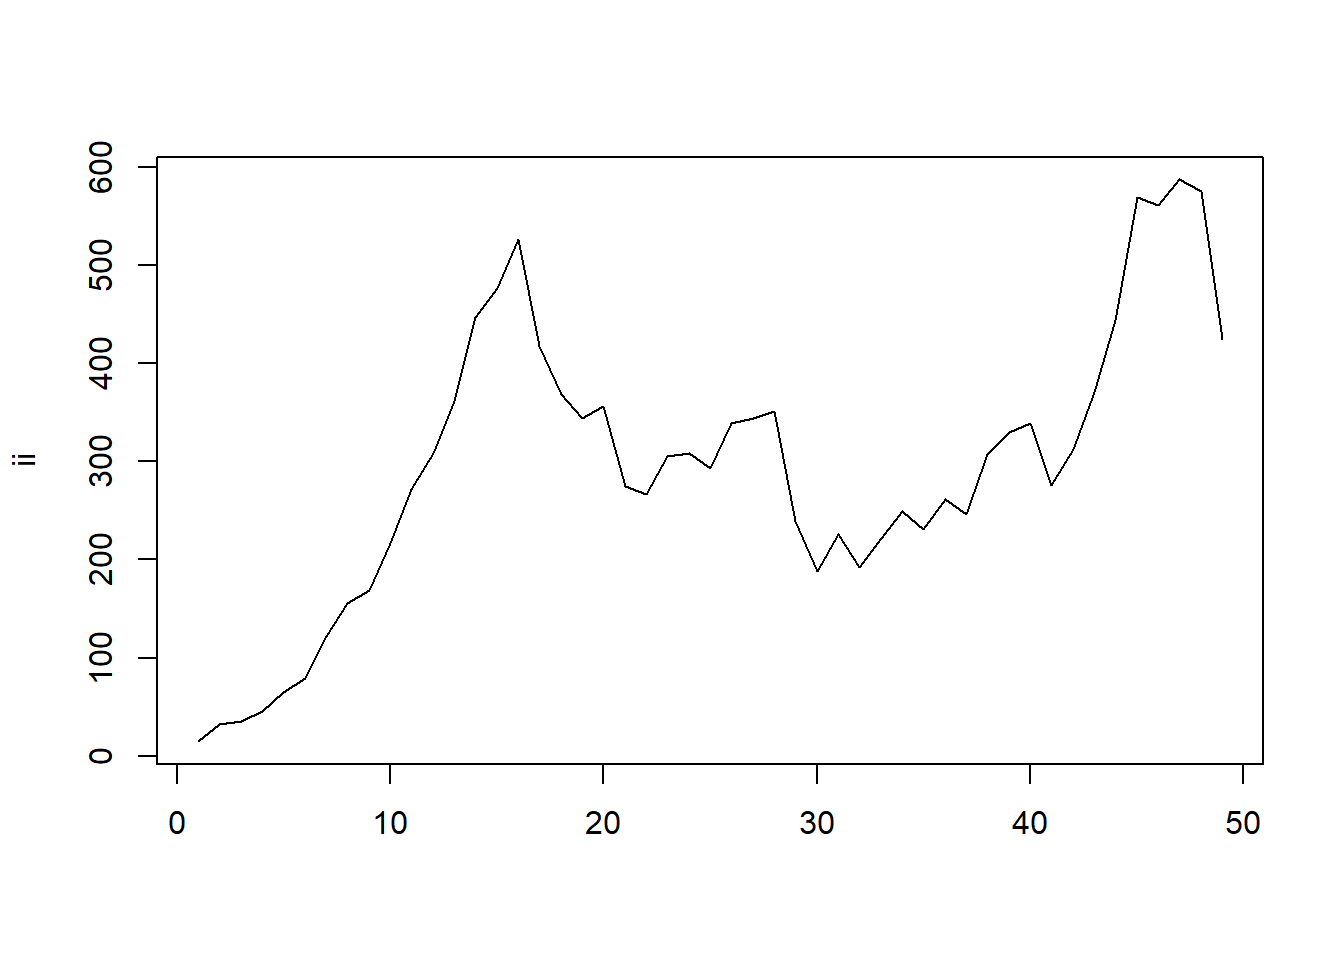
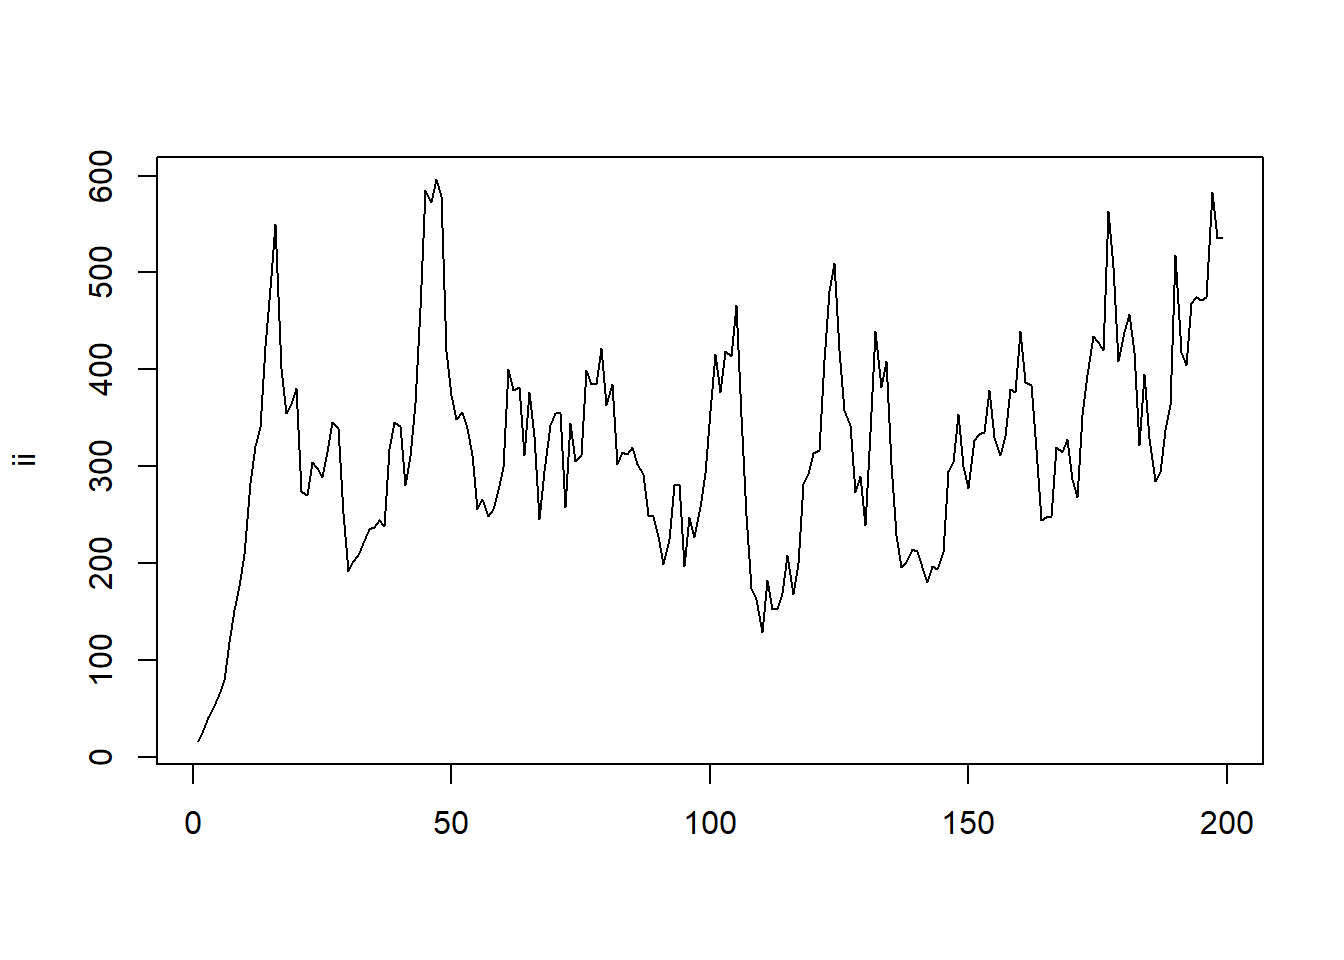
Newly knitted simulation file. Pictures look better but still need better parameter values.

diff --git a/Simulate_Process.html b/Simulate_Process.html
@@ -185,28 +185,28 @@ pre > code.sourceCode > span > a:first-child::before { text-decoration: underlin
 <p>Simplify things by taking just one county, constant binomial contact rate <code>beta=1.2</code>, constant binomial recovery rate <code>gamma=0.8</code>, and constant binomial probability of moving from recovered to susceptible (<code>delta=0.2</code>). Introduce beta-binomial correlation parameters for each rate (<code>rho_beta</code>, <code>rho_gamma</code>, <code>rho_delta</code>).</p>
 <div class="cell">
 <div class="sourceCode cell-code" id="cb4"><pre class="sourceCode r code-with-copy"><code class="sourceCode r"><span id="cb4-1"><a href="#cb4-1" aria-hidden="true" tabindex="-1"></a>N_C <span class="ot">&lt;-</span> <span class="dv">1</span> <span class="co"># number of counties</span></span>
-<span id="cb4-2"><a href="#cb4-2" aria-hidden="true" tabindex="-1"></a>TT <span class="ot">&lt;-</span> <span class="dv">50</span> <span class="co"># number of time periods</span></span>
+<span id="cb4-2"><a href="#cb4-2" aria-hidden="true" tabindex="-1"></a>TT <span class="ot">&lt;-</span> <span class="dv">200</span> <span class="co"># number of time periods</span></span>
 <span id="cb4-3"><a href="#cb4-3" aria-hidden="true" tabindex="-1"></a></span>
 <span id="cb4-4"><a href="#cb4-4" aria-hidden="true" tabindex="-1"></a>pop_size <span class="ot">&lt;-</span> <span class="fl">1e4</span> <span class="co"># fixed size of population</span></span>
 <span id="cb4-5"><a href="#cb4-5" aria-hidden="true" tabindex="-1"></a>I_0 <span class="ot">&lt;-</span> <span class="fu">sample</span>(<span class="dv">10</span><span class="sc">:</span><span class="dv">20</span>,N_C,<span class="cn">TRUE</span>) <span class="co"># initial number of infections</span></span>
 <span id="cb4-6"><a href="#cb4-6" aria-hidden="true" tabindex="-1"></a>S_0 <span class="ot">&lt;-</span> pop_size <span class="sc">-</span> I_0 <span class="co"># initial number of susceptibles</span></span>
 <span id="cb4-7"><a href="#cb4-7" aria-hidden="true" tabindex="-1"></a></span>
 <span id="cb4-8"><a href="#cb4-8" aria-hidden="true" tabindex="-1"></a><span class="co"># matrices for underlying true counts in compartments</span></span>
-<span id="cb4-9"><a href="#cb4-9" aria-hidden="true" tabindex="-1"></a><span class="co"># I=infected</span></span>
+<span id="cb4-9"><a href="#cb4-9" aria-hidden="true" tabindex="-1"></a><span class="co"># I=infective</span></span>
 <span id="cb4-10"><a href="#cb4-10" aria-hidden="true" tabindex="-1"></a><span class="co"># S=susceptible</span></span>
-<span id="cb4-11"><a href="#cb4-11" aria-hidden="true" tabindex="-1"></a><span class="co"># R=recovered/removed</span></span>
+<span id="cb4-11"><a href="#cb4-11" aria-hidden="true" tabindex="-1"></a><span class="co"># R=recovered</span></span>
 <span id="cb4-12"><a href="#cb4-12" aria-hidden="true" tabindex="-1"></a>R <span class="ot">&lt;-</span> S <span class="ot">&lt;-</span> I <span class="ot">&lt;-</span> <span class="fu">matrix</span>(<span class="cn">NA_real_</span>,TT, N_C) </span>
 <span id="cb4-13"><a href="#cb4-13" aria-hidden="true" tabindex="-1"></a></span>
 <span id="cb4-14"><a href="#cb4-14" aria-hidden="true" tabindex="-1"></a><span class="co"># matrices for counts moving between compartments</span></span>
 <span id="cb4-15"><a href="#cb4-15" aria-hidden="true" tabindex="-1"></a><span class="co"># RS=number moving from recovered to susceptible</span></span>
-<span id="cb4-16"><a href="#cb4-16" aria-hidden="true" tabindex="-1"></a><span class="co"># SI=number moving from susceptible to infected</span></span>
-<span id="cb4-17"><a href="#cb4-17" aria-hidden="true" tabindex="-1"></a><span class="co"># IR=number moving from infected to recovered</span></span>
+<span id="cb4-16"><a href="#cb4-16" aria-hidden="true" tabindex="-1"></a><span class="co"># SI=number moving from susceptible to infective</span></span>
+<span id="cb4-17"><a href="#cb4-17" aria-hidden="true" tabindex="-1"></a><span class="co"># IR=number moving from infective to recovered</span></span>
 <span id="cb4-18"><a href="#cb4-18" aria-hidden="true" tabindex="-1"></a></span>
 <span id="cb4-19"><a href="#cb4-19" aria-hidden="true" tabindex="-1"></a>RS <span class="ot">&lt;-</span> SI <span class="ot">&lt;-</span> IR <span class="ot">&lt;-</span> <span class="fu">matrix</span>(<span class="cn">NA_real_</span>,TT<span class="dv">-1</span>, N_C)</span>
 <span id="cb4-20"><a href="#cb4-20" aria-hidden="true" tabindex="-1"></a>ii <span class="ot">&lt;-</span> <span class="fu">matrix</span>(<span class="cn">NA_real_</span>,TT<span class="dv">-1</span>, N_C) <span class="co"># observed cases</span></span>
 <span id="cb4-21"><a href="#cb4-21" aria-hidden="true" tabindex="-1"></a></span>
 <span id="cb4-22"><a href="#cb4-22" aria-hidden="true" tabindex="-1"></a><span class="co"># initial values for the compartment matrices</span></span>
-<span id="cb4-23"><a href="#cb4-23" aria-hidden="true" tabindex="-1"></a>S[<span class="dv">1</span>,] <span class="ot">&lt;-</span> S_0</span>
+<span id="cb4-23"><a href="#cb4-23" aria-hidden="true" tabindex="-1"></a>S[<span class="dv">1</span>,] <span class="ot">&lt;-</span> S_0 </span>
 <span id="cb4-24"><a href="#cb4-24" aria-hidden="true" tabindex="-1"></a>I[<span class="dv">1</span>,] <span class="ot">&lt;-</span> I_0</span>
 <span id="cb4-25"><a href="#cb4-25" aria-hidden="true" tabindex="-1"></a>R[<span class="dv">1</span>,] <span class="ot">&lt;-</span> <span class="dv">0</span> </span>
 <span id="cb4-26"><a href="#cb4-26" aria-hidden="true" tabindex="-1"></a></span>
@@ -216,7 +216,7 @@ pre > code.sourceCode > span > a:first-child::before { text-decoration: underlin
 <span id="cb4-30"><a href="#cb4-30" aria-hidden="true" tabindex="-1"></a>delta <span class="ot">&lt;-</span> <span class="fl">0.2</span> <span class="co"># P(go from R to S)</span></span>
 <span id="cb4-31"><a href="#cb4-31" aria-hidden="true" tabindex="-1"></a></span>
 <span id="cb4-32"><a href="#cb4-32" aria-hidden="true" tabindex="-1"></a><span class="co"># beta-binomial correlation parameters rho for random moves</span></span>
-<span id="cb4-33"><a href="#cb4-33" aria-hidden="true" tabindex="-1"></a><span class="co"># between compartments</span></span>
+<span id="cb4-33"><a href="#cb4-33" aria-hidden="true" tabindex="-1"></a><span class="co"># between compartments. Close to 0 is close to usual binomial.</span></span>
 <span id="cb4-34"><a href="#cb4-34" aria-hidden="true" tabindex="-1"></a>rho_beta <span class="ot">&lt;-</span> <span class="fl">0.0001</span></span>
 <span id="cb4-35"><a href="#cb4-35" aria-hidden="true" tabindex="-1"></a>rho_gamma <span class="ot">&lt;-</span> <span class="fl">0.1</span></span>
 <span id="cb4-36"><a href="#cb4-36" aria-hidden="true" tabindex="-1"></a>rho_delta <span class="ot">&lt;-</span> <span class="fl">0.1</span></span>
@@ -262,6 +262,100 @@ pre > code.sourceCode > span > a:first-child::before { text-decoration: underlin
 <div>
 <figure class="figure">
 <p><img src="Simulate_Process_files/figure-html/unnamed-chunk-3-1.png" class="img-fluid figure-img" width="672"></p>
+</figure>
+</div>
+</div>
+</div>
+</section>
+<section id="more-compartments" class="level2">
+<h2 class="anchored" data-anchor-id="more-compartments">More compartments</h2>
+<p>Try adding an exposed compartment and multiple recovered compartments. Assume that people move through the recovered compartments sequentially.</p>
+<div class="cell">
+<div class="sourceCode cell-code" id="cb6"><pre class="sourceCode r code-with-copy"><code class="sourceCode r"><span id="cb6-1"><a href="#cb6-1" aria-hidden="true" tabindex="-1"></a><span class="co"># matrices for exposed compartment and for movement from susceptible </span></span>
+<span id="cb6-2"><a href="#cb6-2" aria-hidden="true" tabindex="-1"></a><span class="co"># to exposed and from exposed to infected.</span></span>
+<span id="cb6-3"><a href="#cb6-3" aria-hidden="true" tabindex="-1"></a>E <span class="ot">&lt;-</span> <span class="fu">matrix</span>(<span class="cn">NA_real_</span>,TT, N_C) <span class="co"># exposed</span></span>
+<span id="cb6-4"><a href="#cb6-4" aria-hidden="true" tabindex="-1"></a>SE <span class="ot">&lt;-</span> EI <span class="ot">&lt;-</span> <span class="fu">matrix</span>(<span class="cn">NA_real_</span>,TT<span class="dv">-1</span>, N_C) <span class="co"># movement</span></span>
+<span id="cb6-5"><a href="#cb6-5" aria-hidden="true" tabindex="-1"></a></span>
+<span id="cb6-6"><a href="#cb6-6" aria-hidden="true" tabindex="-1"></a><span class="co"># array for counts in each recovered compartment for each time period and each county</span></span>
+<span id="cb6-7"><a href="#cb6-7" aria-hidden="true" tabindex="-1"></a>NRC <span class="ot">&lt;-</span> <span class="dv">3</span> <span class="co"># number of recovered compartments</span></span>
+<span id="cb6-8"><a href="#cb6-8" aria-hidden="true" tabindex="-1"></a>R_array <span class="ot">&lt;-</span> <span class="fu">array</span>(<span class="at">data =</span> <span class="cn">NA_real_</span>, <span class="at">dim=</span><span class="fu">c</span>(NRC, TT, N_C))</span>
+<span id="cb6-9"><a href="#cb6-9" aria-hidden="true" tabindex="-1"></a></span>
+<span id="cb6-10"><a href="#cb6-10" aria-hidden="true" tabindex="-1"></a><span class="co"># array for movement through recovered compartments</span></span>
+<span id="cb6-11"><a href="#cb6-11" aria-hidden="true" tabindex="-1"></a>RR_array <span class="ot">&lt;-</span> <span class="fu">array</span>(<span class="at">data=</span><span class="cn">NA_real_</span>, <span class="at">dim=</span><span class="fu">c</span>(NRC<span class="dv">-1</span>, TT<span class="dv">-1</span>, N_C))</span>
+<span id="cb6-12"><a href="#cb6-12" aria-hidden="true" tabindex="-1"></a></span>
+<span id="cb6-13"><a href="#cb6-13" aria-hidden="true" tabindex="-1"></a><span class="co"># parameters for binomial probabilities of moving from E to I and</span></span>
+<span id="cb6-14"><a href="#cb6-14" aria-hidden="true" tabindex="-1"></a><span class="co"># from one recovered compartment to the next</span></span>
+<span id="cb6-15"><a href="#cb6-15" aria-hidden="true" tabindex="-1"></a>eta <span class="ot">&lt;-</span> <span class="fl">0.7</span> <span class="co"># probability of becoming infective after exposure</span></span>
+<span id="cb6-16"><a href="#cb6-16" aria-hidden="true" tabindex="-1"></a>theta <span class="ot">&lt;-</span> <span class="fl">0.1</span> <span class="co"># probability of advancing to next recovered compartment</span></span>
+<span id="cb6-17"><a href="#cb6-17" aria-hidden="true" tabindex="-1"></a></span>
+<span id="cb6-18"><a href="#cb6-18" aria-hidden="true" tabindex="-1"></a><span class="co"># beta-binomial correlation parameters rho for movement distributions</span></span>
+<span id="cb6-19"><a href="#cb6-19" aria-hidden="true" tabindex="-1"></a>rho_eta <span class="ot">&lt;-</span> <span class="fl">0.001</span></span>
+<span id="cb6-20"><a href="#cb6-20" aria-hidden="true" tabindex="-1"></a>rho_theta <span class="ot">&lt;-</span> <span class="fl">0.0001</span></span>
+<span id="cb6-21"><a href="#cb6-21" aria-hidden="true" tabindex="-1"></a></span>
+<span id="cb6-22"><a href="#cb6-22" aria-hidden="true" tabindex="-1"></a><span class="co"># initial counts for new model</span></span>
+<span id="cb6-23"><a href="#cb6-23" aria-hidden="true" tabindex="-1"></a>E_0 <span class="ot">&lt;-</span> <span class="fu">sample</span>(<span class="dv">10</span><span class="sc">:</span><span class="dv">20</span>, N_C, <span class="cn">TRUE</span>) <span class="co"># initial number of exposed</span></span>
+<span id="cb6-24"><a href="#cb6-24" aria-hidden="true" tabindex="-1"></a>E[<span class="dv">1</span>,] <span class="ot">&lt;-</span> E_0</span>
+<span id="cb6-25"><a href="#cb6-25" aria-hidden="true" tabindex="-1"></a>S_0 <span class="ot">&lt;-</span> pop_size <span class="sc">-</span> I_0 <span class="sc">-</span> E_0 <span class="co"># initial number of susceptible</span></span>
+<span id="cb6-26"><a href="#cb6-26" aria-hidden="true" tabindex="-1"></a>S[<span class="dv">1</span>,] <span class="ot">&lt;-</span> S_0</span>
+<span id="cb6-27"><a href="#cb6-27" aria-hidden="true" tabindex="-1"></a>R_array[,<span class="dv">1</span>,] <span class="ot">&lt;-</span> <span class="dv">0</span> <span class="co"># initial number of recovered</span></span></code><button title="Copy to Clipboard" class="code-copy-button"><i class="bi"></i></button></pre></div>
+</div>
+<p>For this model, <code>beta</code> and <code>rho_beta</code> will be the exposure parameters, <code>gamma</code> and <code>rho_gamma</code> will be the parameters governing movement from infected to the first recovered compartment, and <code>delta</code> and <code>rho_delta</code> will be the parameters governing movement from the last recovered compartment to the susceptible compartment.</p>
+<div class="cell">
+<div class="sourceCode cell-code" id="cb7"><pre class="sourceCode r code-with-copy"><code class="sourceCode r"><span id="cb7-1"><a href="#cb7-1" aria-hidden="true" tabindex="-1"></a><span class="co"># Step through time periods and counties, generating random movements</span></span>
+<span id="cb7-2"><a href="#cb7-2" aria-hidden="true" tabindex="-1"></a><span class="co"># and updating counts in compartments.</span></span>
+<span id="cb7-3"><a href="#cb7-3" aria-hidden="true" tabindex="-1"></a><span class="cf">for</span> (t <span class="cf">in</span> <span class="dv">1</span><span class="sc">:</span>(TT<span class="dv">-1</span>)){</span>
+<span id="cb7-4"><a href="#cb7-4" aria-hidden="true" tabindex="-1"></a>  <span class="cf">for</span> (ct <span class="cf">in</span>  <span class="dv">1</span><span class="sc">:</span>N_C) {</span>
+<span id="cb7-5"><a href="#cb7-5" aria-hidden="true" tabindex="-1"></a>    (SE[t,ct]<span class="ot">=</span><span class="fu">rbetabinom</span>(<span class="dv">1</span>,S[t,ct],</span>
+<span id="cb7-6"><a href="#cb7-6" aria-hidden="true" tabindex="-1"></a>                        <span class="dv">1</span><span class="sc">-</span><span class="fu">exp</span>(<span class="sc">-</span> <span class="fu">sum</span>(beta<span class="sc">*</span>I[t,]<span class="sc">/</span>pop_size)),</span>
+<span id="cb7-7"><a href="#cb7-7" aria-hidden="true" tabindex="-1"></a>                        <span class="at">rho=</span>rho_beta))</span>
+<span id="cb7-8"><a href="#cb7-8" aria-hidden="true" tabindex="-1"></a>    (EI[t,ct]<span class="ot">=</span><span class="fu">rbetabinom</span>(<span class="dv">1</span>,E[t,ct],eta,rho_eta))</span>
+<span id="cb7-9"><a href="#cb7-9" aria-hidden="true" tabindex="-1"></a>    (IR[t,ct]<span class="ot">=</span><span class="fu">rbetabinom</span>(<span class="dv">1</span>,I[t,ct],gamma,<span class="at">rho=</span>rho_gamma))</span>
+<span id="cb7-10"><a href="#cb7-10" aria-hidden="true" tabindex="-1"></a>    </span>
+<span id="cb7-11"><a href="#cb7-11" aria-hidden="true" tabindex="-1"></a>    <span class="co"># Movements from one recovered compartment to the next, not including the last,</span></span>
+<span id="cb7-12"><a href="#cb7-12" aria-hidden="true" tabindex="-1"></a>    <span class="co"># since people go from the last recovered compartment to the susceptible compartment.</span></span>
+<span id="cb7-13"><a href="#cb7-13" aria-hidden="true" tabindex="-1"></a>    <span class="cf">for</span> (cmp <span class="cf">in</span> <span class="dv">1</span><span class="sc">:</span>(NRC<span class="dv">-1</span>)) {</span>
+<span id="cb7-14"><a href="#cb7-14" aria-hidden="true" tabindex="-1"></a>      (RR_array[cmp,t,ct] <span class="ot">&lt;-</span> <span class="fu">rbetabinom</span>(<span class="dv">1</span>,R_array[cmp,t,ct],</span>
+<span id="cb7-15"><a href="#cb7-15" aria-hidden="true" tabindex="-1"></a>                                       theta,rho_theta))</span>
+<span id="cb7-16"><a href="#cb7-16" aria-hidden="true" tabindex="-1"></a>    }</span>
+<span id="cb7-17"><a href="#cb7-17" aria-hidden="true" tabindex="-1"></a>    <span class="co"># Movement from the last recovered compartment to susceptible</span></span>
+<span id="cb7-18"><a href="#cb7-18" aria-hidden="true" tabindex="-1"></a>    (RS[t,ct]<span class="ot">=</span><span class="fu">rbetabinom</span>(<span class="dv">1</span>,R_array[NRC,t,ct],delta,<span class="at">rho=</span>rho_delta))</span>
+<span id="cb7-19"><a href="#cb7-19" aria-hidden="true" tabindex="-1"></a></span>
+<span id="cb7-20"><a href="#cb7-20" aria-hidden="true" tabindex="-1"></a>    <span class="co"># Counts at the next time step are the previous time's counts +/- movement.</span></span>
+<span id="cb7-21"><a href="#cb7-21" aria-hidden="true" tabindex="-1"></a>    R_array[<span class="dv">1</span>,t<span class="sc">+</span><span class="dv">1</span>,ct] <span class="ot">&lt;-</span> R_array[<span class="dv">1</span>,t,ct]<span class="sc">+</span>IR[t,ct]<span class="sc">-</span>RR_array[<span class="dv">1</span>,t,ct]</span>
+<span id="cb7-22"><a href="#cb7-22" aria-hidden="true" tabindex="-1"></a>    <span class="cf">for</span> (cmp <span class="cf">in</span> <span class="dv">2</span><span class="sc">:</span>(NRC<span class="dv">-1</span>)) {</span>
+<span id="cb7-23"><a href="#cb7-23" aria-hidden="true" tabindex="-1"></a>      (R_array[cmp,t<span class="sc">+</span><span class="dv">1</span>,ct] <span class="ot">&lt;-</span> R_array[cmp,t,ct] <span class="sc">+</span> RR_array[cmp<span class="dv">-1</span>,t,ct] </span>
+<span id="cb7-24"><a href="#cb7-24" aria-hidden="true" tabindex="-1"></a>                                               <span class="sc">-</span> RR_array[cmp,t,ct])</span>
+<span id="cb7-25"><a href="#cb7-25" aria-hidden="true" tabindex="-1"></a>    }</span>
+<span id="cb7-26"><a href="#cb7-26" aria-hidden="true" tabindex="-1"></a>    (R_array[NRC,t<span class="sc">+</span><span class="dv">1</span>,ct] <span class="ot">&lt;-</span> R_array[NRC,t,ct] <span class="sc">+</span> RR_array[NRC<span class="dv">-1</span>,t,ct] <span class="sc">-</span> RS[t,ct])</span>
+<span id="cb7-27"><a href="#cb7-27" aria-hidden="true" tabindex="-1"></a>    (S[t<span class="sc">+</span><span class="dv">1</span>,ct]<span class="ot">=</span>S[t,ct]<span class="sc">-</span>SE[t,ct]<span class="sc">+</span>RS[t,ct])</span>
+<span id="cb7-28"><a href="#cb7-28" aria-hidden="true" tabindex="-1"></a>    (E[t<span class="sc">+</span><span class="dv">1</span>,ct]<span class="ot">=</span>E[t,ct]<span class="sc">+</span>SE[t,ct]<span class="sc">-</span>EI[t,ct])</span>
+<span id="cb7-29"><a href="#cb7-29" aria-hidden="true" tabindex="-1"></a>    (I[t<span class="sc">+</span><span class="dv">1</span>,ct]<span class="ot">=</span>I[t,ct]<span class="sc">+</span>EI[t,ct]<span class="sc">-</span>IR[t,ct])</span>
+<span id="cb7-30"><a href="#cb7-30" aria-hidden="true" tabindex="-1"></a>  }</span>
+<span id="cb7-31"><a href="#cb7-31" aria-hidden="true" tabindex="-1"></a>}</span>
+<span id="cb7-32"><a href="#cb7-32" aria-hidden="true" tabindex="-1"></a></span>
+<span id="cb7-33"><a href="#cb7-33" aria-hidden="true" tabindex="-1"></a><span class="co"># observed new cases</span></span>
+<span id="cb7-34"><a href="#cb7-34" aria-hidden="true" tabindex="-1"></a>ii<span class="ot">=</span><span class="fu">matrix</span>(<span class="fu">rbinom</span>(N_C<span class="sc">*</span>(TT<span class="dv">-1</span>),EI,p_detect),<span class="at">nrow=</span>TT<span class="dv">-1</span>)</span>
+<span id="cb7-35"><a href="#cb7-35" aria-hidden="true" tabindex="-1"></a></span>
+<span id="cb7-36"><a href="#cb7-36" aria-hidden="true" tabindex="-1"></a><span class="fu">matplot</span>(ii, <span class="at">type=</span><span class="st">"l"</span>)</span></code><button title="Copy to Clipboard" class="code-copy-button"><i class="bi"></i></button></pre></div>
+<div class="cell-output-display">
+<div>
+<figure class="figure">
+<p><img src="Simulate_Process_files/figure-html/unnamed-chunk-5-1.png" class="img-fluid figure-img" width="672"></p>
+</figure>
+</div>
+</div>
+</div>
+<p>Plot the counts in the compartments over time.</p>
+<div class="cell">
+<div class="sourceCode cell-code" id="cb8"><pre class="sourceCode r code-with-copy"><code class="sourceCode r"><span id="cb8-1"><a href="#cb8-1" aria-hidden="true" tabindex="-1"></a><span class="fu">data.frame</span>(<span class="at">t=</span><span class="dv">1</span><span class="sc">:</span>TT,<span class="at">I=</span>I[,<span class="dv">1</span>],<span class="at">S=</span>S[,<span class="dv">1</span>],<span class="at">R1=</span>R_array[<span class="dv">1</span>,,<span class="dv">1</span>],<span class="at">R2=</span>R_array[<span class="dv">2</span>,,<span class="dv">1</span>],<span class="at">R3=</span>R_array[<span class="dv">3</span>,,<span class="dv">1</span>]) <span class="sc">%&gt;%</span></span>
+<span id="cb8-2"><a href="#cb8-2" aria-hidden="true" tabindex="-1"></a>  <span class="fu">pivot_longer</span>(<span class="at">cols=</span><span class="fu">c</span>(I,S,R1,R2,R3),</span>
+<span id="cb8-3"><a href="#cb8-3" aria-hidden="true" tabindex="-1"></a>               <span class="at">names_to=</span><span class="st">"compartment"</span>,</span>
+<span id="cb8-4"><a href="#cb8-4" aria-hidden="true" tabindex="-1"></a>               <span class="at">values_to=</span><span class="st">"count"</span>) <span class="sc">%&gt;%</span></span>
+<span id="cb8-5"><a href="#cb8-5" aria-hidden="true" tabindex="-1"></a>  <span class="fu">ggplot</span>(<span class="fu">aes</span>(<span class="at">x=</span>t, <span class="at">y=</span>count, <span class="at">color=</span>compartment)) <span class="sc">+</span> <span class="fu">geom_line</span>()</span></code><button title="Copy to Clipboard" class="code-copy-button"><i class="bi"></i></button></pre></div>
+<div class="cell-output-display">
+<div>
+<figure class="figure">
+<p><img src="Simulate_Process_files/figure-html/unnamed-chunk-6-1.png" class="img-fluid figure-img" width="672"></p>
 </figure>
 </div>
 </div>
